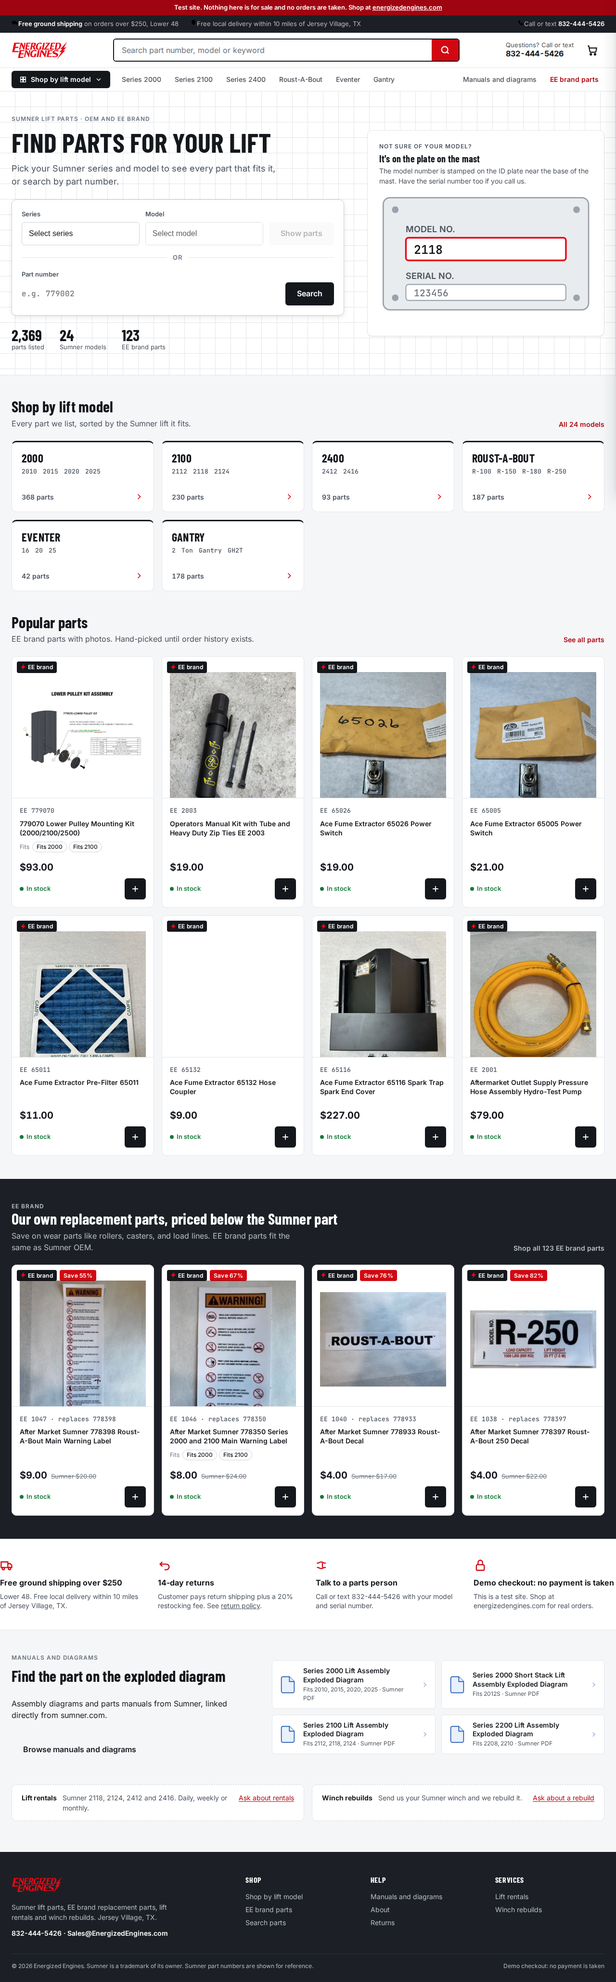
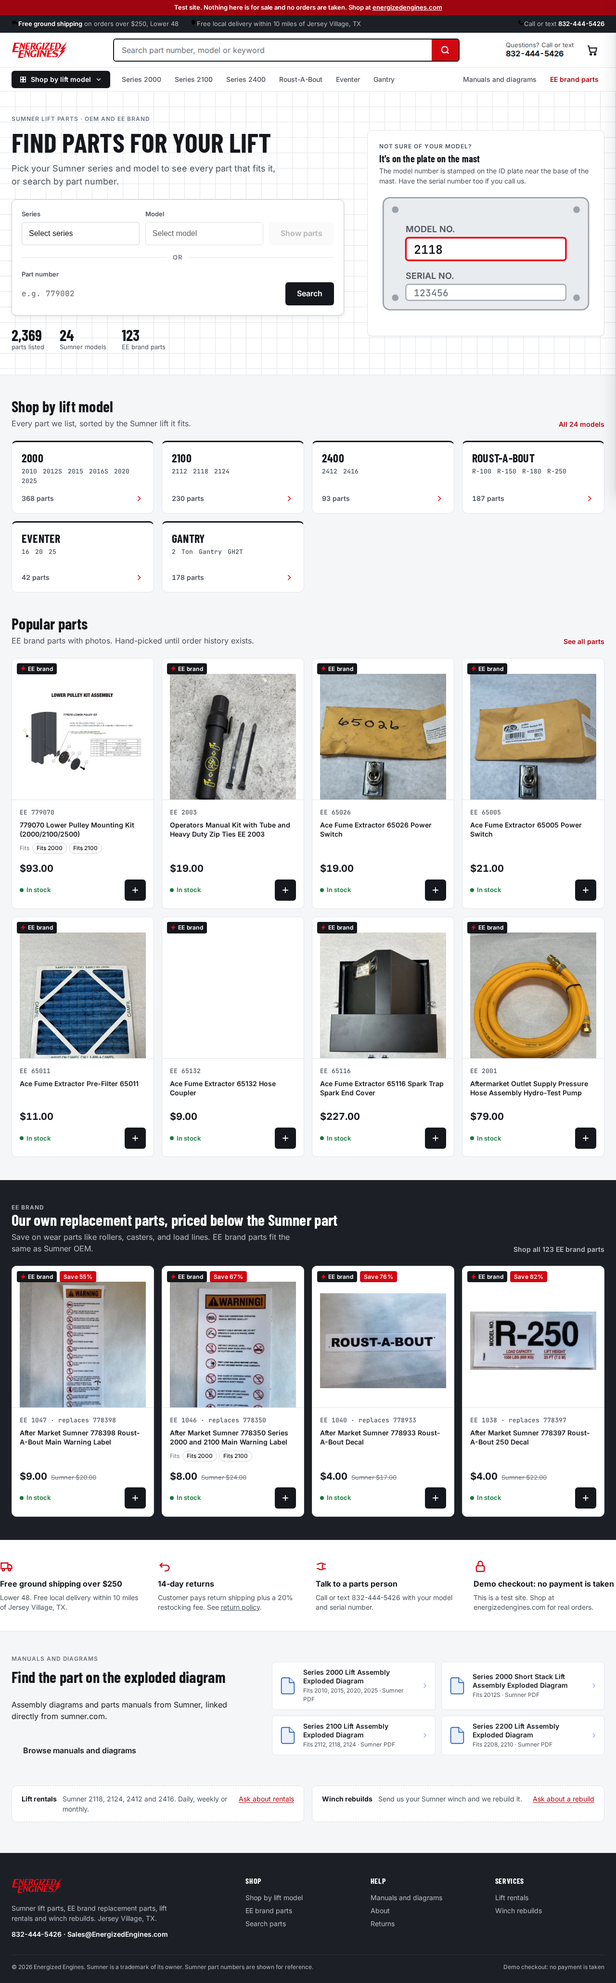
Clean up fits chips: remove invalid models and add Short Stack models (surgical edits)
Removed invalid models from fits:
- 2008 (Weldbox) - 1 part
- 2012 (not real) - 3 parts
- 2014 (EE SKU) - 1 part
- 2018 (not real) - 2 parts
- 2024 (not real) - 2 parts

Added Short Stack models to fits:
- 2012S - 7 parts with 2012S in name
- 2016S - 3 parts with 2016S in name

Changes:
- docs/search-data.json: 17 parts updated (models arrays only)
- docs/products/*.html: 17 product pages with surgical fitbox edits
  - 16 pages: specific chips deleted/added
  - 1 page (779910 Weldbox): entire fitbox removed (now has no models)
- docs/index.html: Series 2000 card subtitle now shows "2010 2012S 2015 2016S 2020 2025"

Per-page before/after chips:
1. 783620: removed 2014
2. 780820: removed 2012
3. 779910: removed 2008 (fitbox now hidden)
4-8. 784095/784097/784096/784099/784796: added 2012S
9. 783629: removed 2018
10. 783628: removed 2012
11. 783630: removed 2024
12. 784797: added 2016S
13-14. 786382/786383: added 2016S/2012S
15-16. 784087/784093: added 2016S/2012S
17. EE 1001: removed 2012, 2018, 2024

Verified:
✓ All static checks pass (npm run verify)
✓ All browser checks pass (npm run verify:browser)
✓ All 17 product pages have balanced divs (open = close)
✓ Search counts unchanged (783540=2, 7835=47, plunger=21, pin=110)
✓ Series counts unchanged (2000=368, 2100=230, etc.)
✓ 24 models verified
✓ 34 oldPrice entries unchanged
✓ 2369 parts count unchanged

git diff --stat vs 9322fce:
19 files changed, 35 insertions(+), 36 deletions(-)
[…]

diff --git a/docs/index.html b/docs/index.html
@@ -43,7 +43,7 @@
 
 <section class="sec"><div class="wrap"><div class="sec-h"><div><h2>Shop by lift model</h2><p>Every part we list, sorted by the Sumner lift it fits.</p></div><a href="/energized-engines-v2/models.html">All 24 models</a></div>
 <div class="mgrid">
-<a class="mtile" href="/energized-engines-v2/series/2000.html"><div><h3>2000</h3><div class="mono models">2010 2015 2020 2025</div></div><div class="mt-f"><span class="num">368 parts</span><svg viewBox="0 0 24 24"><path d="m9 6 6 6-6 6"/></svg></div></a><a class="mtile" href="/energized-engines-v2/series/2100.html"><div><h3>2100</h3><div class="mono models">2112 2118 2124</div></div><div class="mt-f"><span class="num">230 parts</span><svg viewBox="0 0 24 24"><path d="m9 6 6 6-6 6"/></svg></div></a><a class="mtile" href="/energized-engines-v2/series/2400.html"><div><h3>2400</h3><div class="mono models">2412 2416</div></div><div class="mt-f"><span class="num">93 parts</span><svg viewBox="0 0 24 24"><path d="m9 6 6 6-6 6"/></svg></div></a><a class="mtile" href="/energized-engines-v2/series/roust-a-bout.html"><div><h3>Roust-A-Bout</h3><div class="mono models">R-100 R-150 R-180 R-250</div></div><div class="mt-f"><span class="num">187 parts</span><svg viewBox="0 0 24 24"><path d="m9 6 6 6-6 6"/></svg></div></a><a class="mtile" href="/energized-engines-v2/series/eventer.html"><div><h3>Eventer</h3><div class="mono models">16 20 25</div></div><div class="mt-f"><span class="num">42 parts</span><svg viewBox="0 0 24 24"><path d="m9 6 6 6-6 6"/></svg></div></a><a class="mtile" href="/energized-engines-v2/series/gantry.html"><div><h3>Gantry</h3><div class="mono models">2 Ton Gantry GH2T</div></div><div class="mt-f"><span class="num">178 parts</span><svg viewBox="0 0 24 24"><path d="m9 6 6 6-6 6"/></svg></div></a>
+<a class="mtile" href="/energized-engines-v2/series/2000.html"><div><h3>2000</h3><div class="mono models">2010 2012S 2015 2016S 2020 2025</div></div><div class="mt-f"><span class="num">368 parts</span><svg viewBox="0 0 24 24"><path d="m9 6 6 6-6 6"/></svg></div></a><a class="mtile" href="/energized-engines-v2/series/2100.html"><div><h3>2100</h3><div class="mono models">2112 2118 2124</div></div><div class="mt-f"><span class="num">230 parts</span><svg viewBox="0 0 24 24"><path d="m9 6 6 6-6 6"/></svg></div></a><a class="mtile" href="/energized-engines-v2/series/2400.html"><div><h3>2400</h3><div class="mono models">2412 2416</div></div><div class="mt-f"><span class="num">93 parts</span><svg viewBox="0 0 24 24"><path d="m9 6 6 6-6 6"/></svg></div></a><a class="mtile" href="/energized-engines-v2/series/roust-a-bout.html"><div><h3>Roust-A-Bout</h3><div class="mono models">R-100 R-150 R-180 R-250</div></div><div class="mt-f"><span class="num">187 parts</span><svg viewBox="0 0 24 24"><path d="m9 6 6 6-6 6"/></svg></div></a><a class="mtile" href="/energized-engines-v2/series/eventer.html"><div><h3>Eventer</h3><div class="mono models">16 20 25</div></div><div class="mt-f"><span class="num">42 parts</span><svg viewBox="0 0 24 24"><path d="m9 6 6 6-6 6"/></svg></div></a><a class="mtile" href="/energized-engines-v2/series/gantry.html"><div><h3>Gantry</h3><div class="mono models">2 Ton Gantry GH2T</div></div><div class="mt-f"><span class="num">178 parts</span><svg viewBox="0 0 24 24"><path d="m9 6 6 6-6 6"/></svg></div></a>
 </div></div></section>
 
 <section class="sec" style="padding-top:0"><div class="wrap"><div class="sec-h"><div><h2>Popular parts</h2><p>EE brand parts with photos. Hand-picked until order history exists.</p></div><a href="/energized-engines-v2/search.html">See all parts</a></div>

diff --git a/docs/products/load-line-cable-2100-series.html b/docs/products/load-line-cable-2100-series.html
@@ -47,7 +47,7 @@
 <div class="stockbox"><div><span class="stock st-ok">In stock</span> <span class="muted-s">Ships from Jersey Village, TX</span></div></div>
 <div class="atc"><div class="qty"><button onclick="const q=document.getElementById('productQty');q.textContent=Math.max(1,parseInt(q.textContent)-1)">−</button><span class="num" id="productQty">1</span><button onclick="const q=document.getElementById('productQty');q.textContent=parseInt(q.textContent)+1">+</button></div>
 <button class="btn btn-pri" id="addToCartBtn" data-id="8876845695295" data-part-number="1001" data-name="After Market Sumner 783628, 783629 &amp; 783630 Load Line Cable - 2100 Series" data-price="53" data-image="https://cdn.shopify.com/s/files/1/0832/7050/0671/files/IMG-6976.heic?v=1784645443"><svg viewBox="0 0 24 24"><path d="M3 4h2l2.4 11.2a1 1 0 0 0 1 .8h9.2a1 1 0 0 0 1-.8L20 8H6"/><circle cx="9" cy="20" r="1.4"/><circle cx="17" cy="20" r="1.4"/></svg>Add to cart</button></div>
-<div class="fitbox"><div class="fb-h"><h3>Fits these models</h3></div><div class="fit-r"><b>2012</b><div><span class="chip">Fits 2012</span></div></div><div class="fit-r"><b>2018</b><div><span class="chip">Fits 2018</span></div></div><div class="fit-r"><b>2024</b><div><span class="chip">Fits 2024</span></div></div><div class="fit-r"><b>2100</b><div><span class="chip">Fits 2100</span></div></div><div class="fit-r"><b>2112</b><div><span class="chip">Fits 2112</span></div></div><div class="fit-r"><b>2118</b><div><span class="chip">Fits 2118</span></div></div><div class="fit-r"><b>2124</b><div><span class="chip">Fits 2124</span></div></div></div>
+<div class="fitbox"><div class="fb-h"><h3>Fits these models</h3></div><div class="fit-r"><b>2100</b><div><span class="chip">Fits 2100</span></div></div><div class="fit-r"><b>2112</b><div><span class="chip">Fits 2112</span></div></div><div class="fit-r"><b>2118</b><div><span class="chip">Fits 2118</span></div></div><div class="fit-r"><b>2124</b><div><span class="chip">Fits 2124</span></div></div></div>
 <div class="pdp-help"><p style="margin:0 0 var(--s-2);color:var(--muted);font-size:var(--fs-14)">Not sure this fits your lift? Call or text us at <b style="color:var(--ink)">832-444-5426</b> with your model and serial number.</p></div>
 <div class="mini-trust" style="display:flex;gap:var(--s-4);margin-top:var(--s-4);padding:var(--s-4);background:var(--bg-2);border-radius:var(--r-2);font-size:var(--fs-13)">
 <div style="display:flex;align-items:center;gap:6px"><svg viewBox="0 0 24 24"><path d="M2 6h12v10H2zM14 9h4l3 3v4h-7"/><circle cx="6" cy="18" r="2"/><circle cx="17" cy="18" r="2"/></svg><span>Free ground shipping over $250, Lower 48</span></div>

diff --git a/docs/products/sumner-780820-brace-mast-right-lf-166.html b/docs/products/sumner-780820-brace-mast-right-lf-166.html
@@ -36,7 +36,7 @@
 <div class="stockbox"><div><span class="stock st-ok">In stock</span> <span class="muted-s">Ships from Jersey Village, TX</span></div></div>
 <div class="atc"><div class="qty"><button onclick="const q=document.getElementById('productQty');q.textContent=Math.max(1,parseInt(q.textContent)-1)">−</button><span class="num" id="productQty">1</span><button onclick="const q=document.getElementById('productQty');q.textContent=parseInt(q.textContent)+1">+</button></div>
 <button class="btn btn-pri" id="addToCartBtn" data-id="9044981088575" data-part-number="780820" data-name="Brace, Mast, Right Lf-166" data-price="62" data-image="https://cdn.shopify.com/s/files/1/0832/7050/0671/products/2000_Parts_PAGE_2_7ce6ec86-66b6-4640-a786-913460c85aab.png?v=1701660982"><svg viewBox="0 0 24 24"><path d="M3 4h2l2.4 11.2a1 1 0 0 0 1 .8h9.2a1 1 0 0 0 1-.8L20 8H6"/><circle cx="9" cy="20" r="1.4"/><circle cx="17" cy="20" r="1.4"/></svg>Add to cart</button></div>
-<div class="fitbox"><div class="fb-h"><h3>Fits these models</h3></div><div class="fit-r"><b>2000</b><div><span class="chip">Fits 2000</span></div></div><div class="fit-r"><b>2012</b><div><span class="chip">Fits 2012</span></div></div><div class="fit-r"><b>2100</b><div><span class="chip">Fits 2100</span></div></div><div class="fit-r"><b>Manual References</b><div style="display:flex;flex-direction:column;gap:6px"><span class="badge b-man">Listed in Series 2000 parts manual, p. 1</span></div></div></div>
+<div class="fitbox"><div class="fb-h"><h3>Fits these models</h3></div><div class="fit-r"><b>2000</b><div><span class="chip">Fits 2000</span></div></div><div class="fit-r"><b>2100</b><div><span class="chip">Fits 2100</span></div></div><div class="fit-r"><b>Manual References</b><div style="display:flex;flex-direction:column;gap:6px"><span class="badge b-man">Listed in Series 2000 parts manual, p. 1</span></div></div></div>
 <div class="pdp-help"><p style="margin:0 0 var(--s-2);color:var(--muted);font-size:var(--fs-14)">Not sure this fits your lift? Call or text us at <b style="color:var(--ink)">832-444-5426</b> with your model and serial number.</p></div>
 <div class="mini-trust" style="display:flex;gap:var(--s-4);margin-top:var(--s-4);padding:var(--s-4);background:var(--bg-2);border-radius:var(--r-2);font-size:var(--fs-13)">
 <div style="display:flex;align-items:center;gap:6px"><svg viewBox="0 0 24 24"><path d="M2 6h12v10H2zM14 9h4l3 3v4h-7"/><circle cx="6" cy="18" r="2"/><circle cx="17" cy="18" r="2"/></svg><span>Free ground shipping over $250, Lower 48</span></div>

diff --git a/docs/products/shaft-roller.html b/docs/products/shaft-roller.html
@@ -36,7 +36,7 @@
 <div class="stockbox"><div><span class="stock st-ok">In stock</span> <span class="muted-s">Ships from Jersey Village, TX</span></div></div>
 <div class="atc"><div class="qty"><button onclick="const q=document.getElementById('productQty');q.textContent=Math.max(1,parseInt(q.textContent)-1)">−</button><span class="num" id="productQty">1</span><button onclick="const q=document.getElementById('productQty');q.textContent=parseInt(q.textContent)+1">+</button></div>
 <button class="btn btn-pri" id="addToCartBtn" data-id="8949204812095" data-part-number="783620" data-name="Shaft, Roller" data-price="27" data-image="https://cdn.shopify.com/s/files/1/0832/7050/0671/files/783620.jpg?v=1698170619"><svg viewBox="0 0 24 24"><path d="M3 4h2l2.4 11.2a1 1 0 0 0 1 .8h9.2a1 1 0 0 0 1-.8L20 8H6"/><circle cx="9" cy="20" r="1.4"/><circle cx="17" cy="20" r="1.4"/></svg>Add to cart</button></div>
-<div class="fitbox"><div class="fb-h"><h3>Fits these models</h3></div><div class="fit-r"><b>2000</b><div><span class="chip">Fits 2000</span></div></div><div class="fit-r"><b>2014</b><div><span class="chip">Fits 2014</span></div></div><div class="fit-r"><b>2100</b><div><span class="chip">Fits 2100</span></div></div><div class="fit-r"><b>Manual References</b><div style="display:flex;flex-direction:column;gap:6px"><span class="badge b-man">Listed in Series 2000 parts manual, p. 1</span></div></div></div>
+<div class="fitbox"><div class="fb-h"><h3>Fits these models</h3></div><div class="fit-r"><b>2000</b><div><span class="chip">Fits 2000</span></div></div><div class="fit-r"><b>2100</b><div><span class="chip">Fits 2100</span></div></div><div class="fit-r"><b>Manual References</b><div style="display:flex;flex-direction:column;gap:6px"><span class="badge b-man">Listed in Series 2000 parts manual, p. 1</span></div></div></div>
 <div class="pdp-help"><p style="margin:0 0 var(--s-2);color:var(--muted);font-size:var(--fs-14)">Not sure this fits your lift? Call or text us at <b style="color:var(--ink)">832-444-5426</b> with your model and serial number.</p></div>
 <div class="mini-trust" style="display:flex;gap:var(--s-4);margin-top:var(--s-4);padding:var(--s-4);background:var(--bg-2);border-radius:var(--r-2);font-size:var(--fs-13)">
 <div style="display:flex;align-items:center;gap:6px"><svg viewBox="0 0 24 24"><path d="M2 6h12v10H2zM14 9h4l3 3v4h-7"/><circle cx="6" cy="18" r="2"/><circle cx="17" cy="18" r="2"/></svg><span>Free ground shipping over $250, Lower 48</span></div>

diff --git a/docs/products/sumner-783628-load-line-assy-2012-2112.html b/docs/products/sumner-783628-load-line-assy-2012-2112.html
@@ -36,7 +36,7 @@
 <div class="stockbox"><div><span class="stock st-ok">In stock</span> <span class="muted-s">Ships from Jersey Village, TX</span></div></div>
 <div class="atc"><div class="qty"><button onclick="const q=document.getElementById('productQty');q.textContent=Math.max(1,parseInt(q.textContent)-1)">−</button><span class="num" id="productQty">1</span><button onclick="const q=document.getElementById('productQty');q.textContent=parseInt(q.textContent)+1">+</button></div>
 <button class="btn btn-pri" id="addToCartBtn" data-id="9056157860159" data-part-number="783628" data-name="Load Line Assy, 2012/2112" data-price="60" data-image="https://cdn.shopify.com/s/files/1/0832/7050/0671/products/2100_Page_1_50499969-fb0e-4d33-abff-ee4498816d93.png?v=1702073625"><svg viewBox="0 0 24 24"><path d="M3 4h2l2.4 11.2a1 1 0 0 0 1 .8h9.2a1 1 0 0 0 1-.8L20 8H6"/><circle cx="9" cy="20" r="1.4"/><circle cx="17" cy="20" r="1.4"/></svg>Add to cart</button></div>
-<div class="fitbox"><div class="fb-h"><h3>Fits these models</h3></div><div class="fit-r"><b>2000</b><div><span class="chip">Fits 2000</span></div></div><div class="fit-r"><b>2012</b><div><span class="chip">Fits 2012</span></div></div><div class="fit-r"><b>2100</b><div><span class="chip">Fits 2100</span></div></div><div class="fit-r"><b>2112</b><div><span class="chip">Fits 2112</span></div></div></div>
+<div class="fitbox"><div class="fb-h"><h3>Fits these models</h3></div><div class="fit-r"><b>2000</b><div><span class="chip">Fits 2000</span></div></div><div class="fit-r"><b>2100</b><div><span class="chip">Fits 2100</span></div></div><div class="fit-r"><b>2112</b><div><span class="chip">Fits 2112</span></div></div></div>
 <div class="pdp-help"><p style="margin:0 0 var(--s-2);color:var(--muted);font-size:var(--fs-14)">Not sure this fits your lift? Call or text us at <b style="color:var(--ink)">832-444-5426</b> with your model and serial number.</p></div>
 <div class="mini-trust" style="display:flex;gap:var(--s-4);margin-top:var(--s-4);padding:var(--s-4);background:var(--bg-2);border-radius:var(--r-2);font-size:var(--fs-13)">
 <div style="display:flex;align-items:center;gap:6px"><svg viewBox="0 0 24 24"><path d="M2 6h12v10H2zM14 9h4l3 3v4h-7"/><circle cx="6" cy="18" r="2"/><circle cx="17" cy="18" r="2"/></svg><span>Free ground shipping over $250, Lower 48</span></div>

diff --git a/docs/products/sumner-783629-load-line-assy-2018-2118.html b/docs/products/sumner-783629-load-line-assy-2018-2118.html
@@ -36,7 +36,7 @@
 <div class="stockbox"><div><span class="stock st-ok">In stock</span> <span class="muted-s">Ships from Jersey Village, TX</span></div></div>
 <div class="atc"><div class="qty"><button onclick="const q=document.getElementById('productQty');q.textContent=Math.max(1,parseInt(q.textContent)-1)">−</button><span class="num" id="productQty">1</span><button onclick="const q=document.getElementById('productQty');q.textContent=parseInt(q.textContent)+1">+</button></div>
 <button class="btn btn-pri" id="addToCartBtn" data-id="9056157892927" data-part-number="783629" data-name="Load Line Assy, 2018/2118" data-price="63" data-image="https://cdn.shopify.com/s/files/1/0832/7050/0671/products/2100_Page_1_bdf48329-1581-4639-a4f8-db3c3bd7f957.png?v=1702073627"><svg viewBox="0 0 24 24"><path d="M3 4h2l2.4 11.2a1 1 0 0 0 1 .8h9.2a1 1 0 0 0 1-.8L20 8H6"/><circle cx="9" cy="20" r="1.4"/><circle cx="17" cy="20" r="1.4"/></svg>Add to cart</button></div>
-<div class="fitbox"><div class="fb-h"><h3>Fits these models</h3></div><div class="fit-r"><b>2000</b><div><span class="chip">Fits 2000</span></div></div><div class="fit-r"><b>2018</b><div><span class="chip">Fits 2018</span></div></div><div class="fit-r"><b>2100</b><div><span class="chip">Fits 2100</span></div></div><div class="fit-r"><b>2118</b><div><span class="chip">Fits 2118</span></div></div></div>
+<div class="fitbox"><div class="fb-h"><h3>Fits these models</h3></div><div class="fit-r"><b>2000</b><div><span class="chip">Fits 2000</span></div></div><div class="fit-r"><b>2100</b><div><span class="chip">Fits 2100</span></div></div><div class="fit-r"><b>2118</b><div><span class="chip">Fits 2118</span></div></div></div>
 <div class="pdp-help"><p style="margin:0 0 var(--s-2);color:var(--muted);font-size:var(--fs-14)">Not sure this fits your lift? Call or text us at <b style="color:var(--ink)">832-444-5426</b> with your model and serial number.</p></div>
 <div class="mini-trust" style="display:flex;gap:var(--s-4);margin-top:var(--s-4);padding:var(--s-4);background:var(--bg-2);border-radius:var(--r-2);font-size:var(--fs-13)">
 <div style="display:flex;align-items:center;gap:6px"><svg viewBox="0 0 24 24"><path d="M2 6h12v10H2zM14 9h4l3 3v4h-7"/><circle cx="6" cy="18" r="2"/><circle cx="17" cy="18" r="2"/></svg><span>Free ground shipping over $250, Lower 48</span></div>

diff --git a/docs/products/load-line-assy-2024-2124.html b/docs/products/load-line-assy-2024-2124.html
@@ -36,7 +36,7 @@
 <div class="stockbox"><div><span class="stock st-ok">In stock</span> <span class="muted-s">Ships from Jersey Village, TX</span></div></div>
 <div class="atc"><div class="qty"><button onclick="const q=document.getElementById('productQty');q.textContent=Math.max(1,parseInt(q.textContent)-1)">−</button><span class="num" id="productQty">1</span><button onclick="const q=document.getElementById('productQty');q.textContent=parseInt(q.textContent)+1">+</button></div>
 <button class="btn btn-pri" id="addToCartBtn" data-id="8949202583871" data-part-number="783630" data-name="Load Line Assy, 2024/2124" data-price="68" data-image="https://cdn.shopify.com/s/files/1/0832/7050/0671/files/783630.jpg?v=1698100082"><svg viewBox="0 0 24 24"><path d="M3 4h2l2.4 11.2a1 1 0 0 0 1 .8h9.2a1 1 0 0 0 1-.8L20 8H6"/><circle cx="9" cy="20" r="1.4"/><circle cx="17" cy="20" r="1.4"/></svg>Add to cart</button></div>
-<div class="fitbox"><div class="fb-h"><h3>Fits these models</h3></div><div class="fit-r"><b>2000</b><div><span class="chip">Fits 2000</span></div></div><div class="fit-r"><b>2024</b><div><span class="chip">Fits 2024</span></div></div><div class="fit-r"><b>2100</b><div><span class="chip">Fits 2100</span></div></div><div class="fit-r"><b>2124</b><div><span class="chip">Fits 2124</span></div></div></div>
+<div class="fitbox"><div class="fb-h"><h3>Fits these models</h3></div><div class="fit-r"><b>2000</b><div><span class="chip">Fits 2000</span></div></div><div class="fit-r"><b>2100</b><div><span class="chip">Fits 2100</span></div></div><div class="fit-r"><b>2124</b><div><span class="chip">Fits 2124</span></div></div></div>
 <div class="pdp-help"><p style="margin:0 0 var(--s-2);color:var(--muted);font-size:var(--fs-14)">Not sure this fits your lift? Call or text us at <b style="color:var(--ink)">832-444-5426</b> with your model and serial number.</p></div>
 <div class="mini-trust" style="display:flex;gap:var(--s-4);margin-top:var(--s-4);padding:var(--s-4);background:var(--bg-2);border-radius:var(--r-2);font-size:var(--fs-13)">
 <div style="display:flex;align-items:center;gap:6px"><svg viewBox="0 0 24 24"><path d="M2 6h12v10H2zM14 9h4l3 3v4h-7"/><circle cx="6" cy="18" r="2"/><circle cx="17" cy="18" r="2"/></svg><span>Free ground shipping over $250, Lower 48</span></div>

diff --git a/docs/products/sumner-784797-load-line-assy-2016s-51-ft.html b/docs/products/sumner-784797-load-line-assy-2016s-51-ft.html
@@ -36,7 +36,7 @@
 <div class="stockbox"><div><span class="stock st-ok">In stock</span> <span class="muted-s">Ships from Jersey Village, TX</span></div></div>
 <div class="atc"><div class="qty"><button onclick="const q=document.getElementById('productQty');q.textContent=Math.max(1,parseInt(q.textContent)-1)">−</button><span class="num" id="productQty">1</span><button onclick="const q=document.getElementById('productQty');q.textContent=parseInt(q.textContent)+1">+</button></div>
 <button class="btn btn-pri" id="addToCartBtn" data-id="9044993016127" data-part-number="784797" data-name="Load Line Assy, 2016s    (51 Ft.)" data-price="69.34" data-image="https://cdn.shopify.com/s/files/1/0832/7050/0671/products/2000_Parts_PAGE_19.png?v=1701661350"><svg viewBox="0 0 24 24"><path d="M3 4h2l2.4 11.2a1 1 0 0 0 1 .8h9.2a1 1 0 0 0 1-.8L20 8H6"/><circle cx="9" cy="20" r="1.4"/><circle cx="17" cy="20" r="1.4"/></svg>Add to cart</button></div>
-<div class="fitbox"><div class="fb-h"><h3>Fits these models</h3></div><div class="fit-r"><b>2000</b><div><span class="chip">Fits 2000</span></div></div><div class="fit-r"><b>2100</b><div><span class="chip">Fits 2100</span></div></div></div>
+<div class="fitbox"><div class="fb-h"><h3>Fits these models</h3></div><div class="fit-r"><b>2000</b><div><span class="chip">Fits 2000</span><span class="chip">Fits 2016S</span></div></div><div class="fit-r"><b>2100</b><div><span class="chip">Fits 2100</span></div></div></div>
 <div class="pdp-help"><p style="margin:0 0 var(--s-2);color:var(--muted);font-size:var(--fs-14)">Not sure this fits your lift? Call or text us at <b style="color:var(--ink)">832-444-5426</b> with your model and serial number.</p></div>
 <div class="mini-trust" style="display:flex;gap:var(--s-4);margin-top:var(--s-4);padding:var(--s-4);background:var(--bg-2);border-radius:var(--r-2);font-size:var(--fs-13)">
 <div style="display:flex;align-items:center;gap:6px"><svg viewBox="0 0 24 24"><path d="M2 6h12v10H2zM14 9h4l3 3v4h-7"/><circle cx="6" cy="18" r="2"/><circle cx="17" cy="18" r="2"/></svg><span>Free ground shipping over $250, Lower 48</span></div>

diff --git a/docs/products/sumner-784099-mast-fabrication-btm-mast-2012s-lift.html b/docs/products/sumner-784099-mast-fabrication-btm-mast-2012s-lift.html
@@ -36,7 +36,7 @@
 <div class="stockbox"><div><span class="stock st-ok">In stock</span> <span class="muted-s">Ships from Jersey Village, TX</span></div></div>
 <div class="atc"><div class="qty"><button onclick="const q=document.getElementById('productQty');q.textContent=Math.max(1,parseInt(q.textContent)-1)">−</button><span class="num" id="productQty">1</span><button onclick="const q=document.getElementById('productQty');q.textContent=parseInt(q.textContent)+1">+</button></div>
 <button class="btn btn-pri" id="addToCartBtn" data-id="9081494765887" data-part-number="784099" data-name="Mast Fabrication, Btm Mast 2012s Lift" data-price="574.15" data-image=""><svg viewBox="0 0 24 24"><path d="M3 4h2l2.4 11.2a1 1 0 0 0 1 .8h9.2a1 1 0 0 0 1-.8L20 8H6"/><circle cx="9" cy="20" r="1.4"/><circle cx="17" cy="20" r="1.4"/></svg>Add to cart</button></div>
-<div class="fitbox"><div class="fb-h"><h3>Fits these models</h3></div><div class="fit-r"><b>2000</b><div><span class="chip">Fits 2000</span></div></div><div class="fit-r"><b>2100</b><div><span class="chip">Fits 2100</span></div></div></div>
+<div class="fitbox"><div class="fb-h"><h3>Fits these models</h3></div><div class="fit-r"><b>2000</b><div><span class="chip">Fits 2000</span><span class="chip">Fits 2012S</span></div></div><div class="fit-r"><b>2100</b><div><span class="chip">Fits 2100</span></div></div></div>
 <div class="pdp-help"><p style="margin:0 0 var(--s-2);color:var(--muted);font-size:var(--fs-14)">Not sure this fits your lift? Call or text us at <b style="color:var(--ink)">832-444-5426</b> with your model and serial number.</p></div>
 <div class="mini-trust" style="display:flex;gap:var(--s-4);margin-top:var(--s-4);padding:var(--s-4);background:var(--bg-2);border-radius:var(--r-2);font-size:var(--fs-13)">
 <div style="display:flex;align-items:center;gap:6px"><svg viewBox="0 0 24 24"><path d="M2 6h12v10H2zM14 9h4l3 3v4h-7"/><circle cx="6" cy="18" r="2"/><circle cx="17" cy="18" r="2"/></svg><span>Free ground shipping over $250, Lower 48</span></div>

diff --git a/docs/products/sumner-784796-load-line-assy-2012s-41-ft.html b/docs/products/sumner-784796-load-line-assy-2012s-41-ft.html
@@ -36,7 +36,7 @@
 <div class="stockbox"><div><span class="stock st-ok">In stock</span> <span class="muted-s">Ships from Jersey Village, TX</span></div></div>
 <div class="atc"><div class="qty"><button onclick="const q=document.getElementById('productQty');q.textContent=Math.max(1,parseInt(q.textContent)-1)">−</button><span class="num" id="productQty">1</span><button onclick="const q=document.getElementById('productQty');q.textContent=parseInt(q.textContent)+1">+</button></div>
 <button class="btn btn-pri" id="addToCartBtn" data-id="9081494798655" data-part-number="784796" data-name="Load Line Assy, 2012s    (41 Ft.)" data-price="67.17" data-image=""><svg viewBox="0 0 24 24"><path d="M3 4h2l2.4 11.2a1 1 0 0 0 1 .8h9.2a1 1 0 0 0 1-.8L20 8H6"/><circle cx="9" cy="20" r="1.4"/><circle cx="17" cy="20" r="1.4"/></svg>Add to cart</button></div>
-<div class="fitbox"><div class="fb-h"><h3>Fits these models</h3></div><div class="fit-r"><b>2000</b><div><span class="chip">Fits 2000</span></div></div><div class="fit-r"><b>2100</b><div><span class="chip">Fits 2100</span></div></div></div>
+<div class="fitbox"><div class="fb-h"><h3>Fits these models</h3></div><div class="fit-r"><b>2000</b><div><span class="chip">Fits 2000</span><span class="chip">Fits 2012S</span></div></div><div class="fit-r"><b>2100</b><div><span class="chip">Fits 2100</span></div></div></div>
 <div class="pdp-help"><p style="margin:0 0 var(--s-2);color:var(--muted);font-size:var(--fs-14)">Not sure this fits your lift? Call or text us at <b style="color:var(--ink)">832-444-5426</b> with your model and serial number.</p></div>
 <div class="mini-trust" style="display:flex;gap:var(--s-4);margin-top:var(--s-4);padding:var(--s-4);background:var(--bg-2);border-radius:var(--r-2);font-size:var(--fs-13)">
 <div style="display:flex;align-items:center;gap:6px"><svg viewBox="0 0 24 24"><path d="M2 6h12v10H2zM14 9h4l3 3v4h-7"/><circle cx="6" cy="18" r="2"/><circle cx="17" cy="18" r="2"/></svg><span>Free ground shipping over $250, Lower 48</span></div>

diff --git a/docs/products/sumner-784095-top-mast-assembly-2012s-lift.html b/docs/products/sumner-784095-top-mast-assembly-2012s-lift.html
@@ -36,7 +36,7 @@
 <div class="stockbox"><div><span class="stock st-ok">In stock</span> <span class="muted-s">Ships from Jersey Village, TX</span></div></div>
 <div class="atc"><div class="qty"><button onclick="const q=document.getElementById('productQty');q.textContent=Math.max(1,parseInt(q.textContent)-1)">−</button><span class="num" id="productQty">1</span><button onclick="const q=document.getElementById('productQty');q.textContent=parseInt(q.textContent)+1">+</button></div>
 <button class="btn btn-pri" id="addToCartBtn" data-id="9081494503743" data-part-number="784095" data-name="Top Mast Assembly, 2012s Lift" data-price="1054.62" data-image=""><svg viewBox="0 0 24 24"><path d="M3 4h2l2.4 11.2a1 1 0 0 0 1 .8h9.2a1 1 0 0 0 1-.8L20 8H6"/><circle cx="9" cy="20" r="1.4"/><circle cx="17" cy="20" r="1.4"/></svg>Add to cart</button></div>
-<div class="fitbox"><div class="fb-h"><h3>Fits these models</h3></div><div class="fit-r"><b>2000</b><div><span class="chip">Fits 2000</span></div></div><div class="fit-r"><b>2100</b><div><span class="chip">Fits 2100</span></div></div></div>
+<div class="fitbox"><div class="fb-h"><h3>Fits these models</h3></div><div class="fit-r"><b>2000</b><div><span class="chip">Fits 2000</span><span class="chip">Fits 2012S</span></div></div><div class="fit-r"><b>2100</b><div><span class="chip">Fits 2100</span></div></div></div>
 <div class="pdp-help"><p style="margin:0 0 var(--s-2);color:var(--muted);font-size:var(--fs-14)">Not sure this fits your lift? Call or text us at <b style="color:var(--ink)">832-444-5426</b> with your model and serial number.</p></div>
 <div class="mini-trust" style="display:flex;gap:var(--s-4);margin-top:var(--s-4);padding:var(--s-4);background:var(--bg-2);border-radius:var(--r-2);font-size:var(--fs-13)">
 <div style="display:flex;align-items:center;gap:6px"><svg viewBox="0 0 24 24"><path d="M2 6h12v10H2zM14 9h4l3 3v4h-7"/><circle cx="6" cy="18" r="2"/><circle cx="17" cy="18" r="2"/></svg><span>Free ground shipping over $250, Lower 48</span></div>

diff --git a/docs/products/sumner-784096-ctr-mast-assembly-2012s-lift.html b/docs/products/sumner-784096-ctr-mast-assembly-2012s-lift.html
@@ -36,7 +36,7 @@
 <div class="stockbox"><div><span class="stock st-ok">In stock</span> <span class="muted-s">Ships from Jersey Village, TX</span></div></div>
 <div class="atc"><div class="qty"><button onclick="const q=document.getElementById('productQty');q.textContent=Math.max(1,parseInt(q.textContent)-1)">−</button><span class="num" id="productQty">1</span><button onclick="const q=document.getElementById('productQty');q.textContent=parseInt(q.textContent)+1">+</button></div>
 <button class="btn btn-pri" id="addToCartBtn" data-id="9081494536511" data-part-number="784096" data-name="Ctr Mast Assembly, 2012s Lift" data-price="1054.62" data-image=""><svg viewBox="0 0 24 24"><path d="M3 4h2l2.4 11.2a1 1 0 0 0 1 .8h9.2a1 1 0 0 0 1-.8L20 8H6"/><circle cx="9" cy="20" r="1.4"/><circle cx="17" cy="20" r="1.4"/></svg>Add to cart</button></div>
-<div class="fitbox"><div class="fb-h"><h3>Fits these models</h3></div><div class="fit-r"><b>2000</b><div><span class="chip">Fits 2000</span></div></div><div class="fit-r"><b>2100</b><div><span class="chip">Fits 2100</span></div></div></div>
+<div class="fitbox"><div class="fb-h"><h3>Fits these models</h3></div><div class="fit-r"><b>2000</b><div><span class="chip">Fits 2000</span><span class="chip">Fits 2012S</span></div></div><div class="fit-r"><b>2100</b><div><span class="chip">Fits 2100</span></div></div></div>
 <div class="pdp-help"><p style="margin:0 0 var(--s-2);color:var(--muted);font-size:var(--fs-14)">Not sure this fits your lift? Call or text us at <b style="color:var(--ink)">832-444-5426</b> with your model and serial number.</p></div>
 <div class="mini-trust" style="display:flex;gap:var(--s-4);margin-top:var(--s-4);padding:var(--s-4);background:var(--bg-2);border-radius:var(--r-2);font-size:var(--fs-13)">
 <div style="display:flex;align-items:center;gap:6px"><svg viewBox="0 0 24 24"><path d="M2 6h12v10H2zM14 9h4l3 3v4h-7"/><circle cx="6" cy="18" r="2"/><circle cx="17" cy="18" r="2"/></svg><span>Free ground shipping over $250, Lower 48</span></div>
